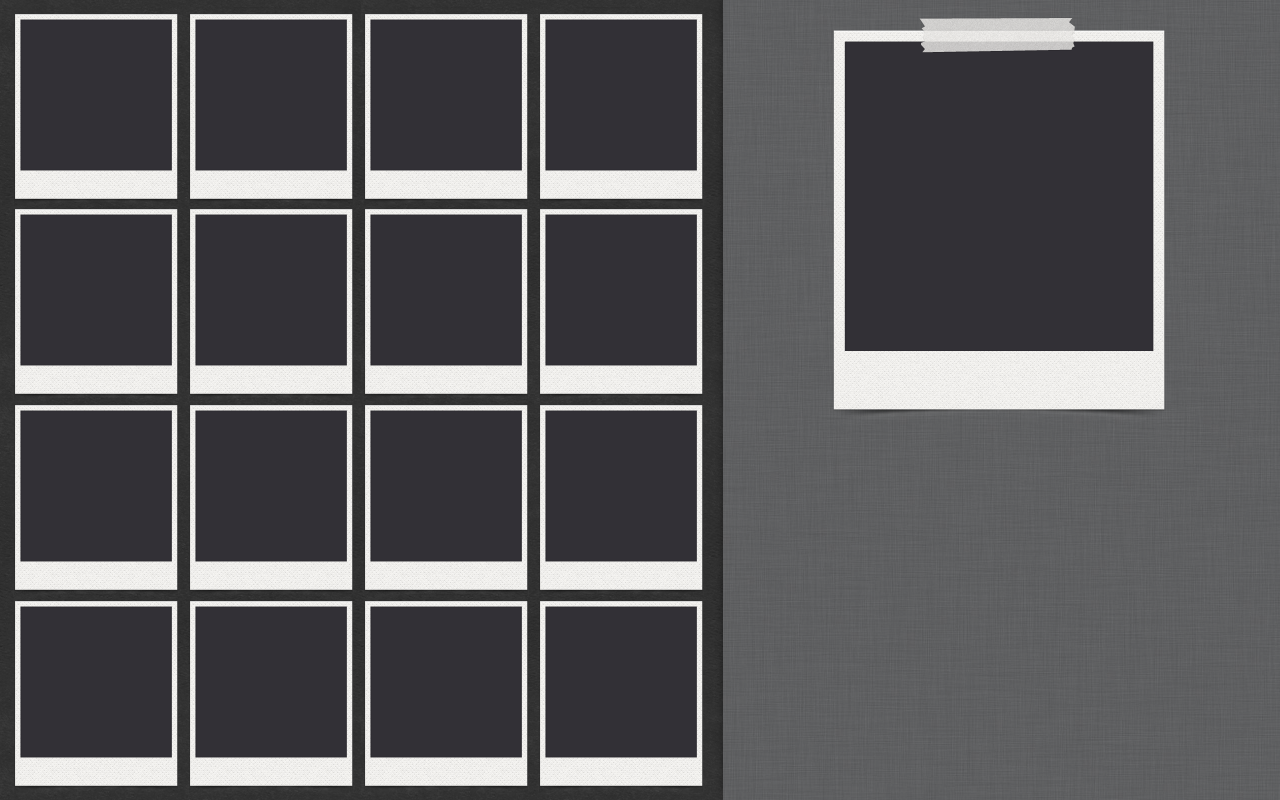
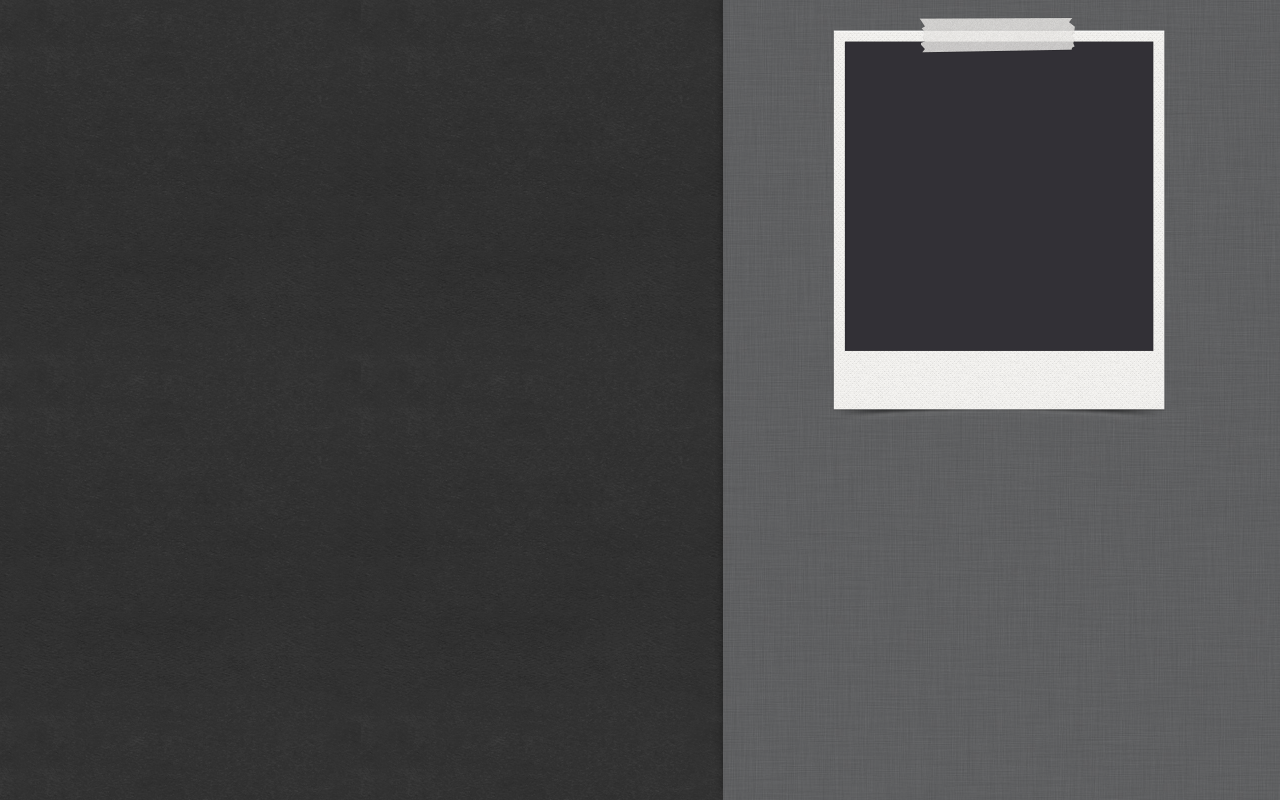
aanpassingen gui

Changed region(s): [[0.0, 0.0, 0.5625, 1.0]]

diff --git a/ir-project/src/main/java/ir_project/gui/GuiInvoker.java b/ir-project/src/main/java/ir_project/gui/GuiInvoker.java
@@ -11,9 +11,9 @@ import java.awt.Font;
 import java.awt.GraphicsDevice;
 import java.awt.GraphicsEnvironment;
 import java.awt.SystemColor;
-import java.awt.event.MouseEvent;
-import java.awt.event.MouseListener;
-import java.awt.event.MouseMotionListener;
+//import java.awt.event.MouseEvent;
+//import java.awt.event.MouseListener;
+//import java.awt.event.MouseMotionListener;
 
 import javax.swing.ImageIcon;
 import javax.swing.JButton;
@@ -94,8 +94,24 @@ public class GuiInvoker {
 		statusbar.setText("Find this image!");
 		frmClusteredImageRetrieval.getContentPane().add(statusbar);
 
-		Handlerclass handler = new Handlerclass();
+		// Handlerclass handler = new Handlerclass();
 
+		
+		JLabel frame1 = new JLabel("frame1");
+		frame1.setIcon(new ImageIcon(GuiInvoker.class
+				.getResource("frame.png")));
+		frame1.setPreferredSize(new Dimension(170, 170));
+		frame1.setIconTextGap(10);
+		frame1
+				.setComponentOrientation(ComponentOrientation.LEFT_TO_RIGHT);
+		frame1.setBorder(null);
+		frame1.setAlignmentY(0.0f);
+		frame1.setBounds(15, 620, 170, 170);
+		frmClusteredImageRetrieval.getContentPane().add(frame1);
+		
+
+		
+		
 		JButton image_1 = new JButton("1");
 		image_1.setBounds(21, 20, 150, 150);
 		image_1.setComponentOrientation(ComponentOrientation.LEFT_TO_RIGHT);
@@ -105,7 +121,7 @@ public class GuiInvoker {
 		image_1.setPreferredSize(new Dimension(150, 150));
 		image_1.setBorder(null);
 		image_1.setCursor(new Cursor(Cursor.HAND_CURSOR));
-		frmClusteredImageRetrieval.getContentPane().add(image_1);
+		// frmClusteredImageRetrieval.getContentPane().add(image_1);
 
 		JButton image_2 = new JButton("2");
 		image_2.setBounds(196, 20, 150, 150);
@@ -116,7 +132,7 @@ public class GuiInvoker {
 		image_2.setBorder(null);
 		image_2.setAlignmentY(0.0f);
 		image_2.setCursor(new Cursor(Cursor.HAND_CURSOR));
-		frmClusteredImageRetrieval.getContentPane().add(image_2);
+		// frmClusteredImageRetrieval.getContentPane().add(image_2);
 
 		JButton image_3 = new JButton("3");
 		image_3.setIcon(new ImageIcon(GuiInvoker.class.getResource("3.jpg")));
@@ -127,7 +143,7 @@ public class GuiInvoker {
 		image_3.setAlignmentY(0.0f);
 		image_3.setBounds(371, 20, 150, 150);
 		image_3.setCursor(new Cursor(Cursor.HAND_CURSOR));
-		frmClusteredImageRetrieval.getContentPane().add(image_3);
+		// frmClusteredImageRetrieval.getContentPane().add(image_3);
 
 		JButton image_4 = new JButton("4");
 		image_4.setIcon(new ImageIcon(GuiInvoker.class.getResource("4.jpg")));
@@ -138,7 +154,7 @@ public class GuiInvoker {
 		image_4.setAlignmentY(0.0f);
 		image_4.setBounds(546, 20, 150, 150);
 		image_4.setCursor(new Cursor(Cursor.HAND_CURSOR));
-		frmClusteredImageRetrieval.getContentPane().add(image_4);
+		// frmClusteredImageRetrieval.getContentPane().add(image_4);
 
 		JButton image_5 = new JButton("5");
 		image_5.setIcon(new ImageIcon(GuiInvoker.class.getResource("5.jpeg")));
@@ -149,7 +165,7 @@ public class GuiInvoker {
 		image_5.setAlignmentY(0.0f);
 		image_5.setBounds(21, 215, 150, 150);
 		image_5.setCursor(new Cursor(Cursor.HAND_CURSOR));
-		frmClusteredImageRetrieval.getContentPane().add(image_5);
+		// frmClusteredImageRetrieval.getContentPane().add(image_5);
 
 		JButton image_6 = new JButton("6");
 		image_6.setIcon(new ImageIcon(GuiInvoker.class.getResource("6.jpg")));
@@ -160,7 +176,7 @@ public class GuiInvoker {
 		image_6.setAlignmentY(0.0f);
 		image_6.setBounds(196, 215, 150, 150);
 		image_6.setCursor(new Cursor(Cursor.HAND_CURSOR));
-		frmClusteredImageRetrieval.getContentPane().add(image_6);
+		// frmClusteredImageRetrieval.getContentPane().add(image_6);
 
 		JButton image_7 = new JButton("7");
 		image_7.setIcon(new ImageIcon(GuiInvoker.class.getResource("7.jpeg")));
@@ -171,7 +187,7 @@ public class GuiInvoker {
 		image_7.setAlignmentY(0.0f);
 		image_7.setBounds(371, 215, 150, 150);
 		image_7.setCursor(new Cursor(Cursor.HAND_CURSOR));
-		frmClusteredImageRetrieval.getContentPane().add(image_7);
+		// frmClusteredImageRetrieval.getContentPane().add(image_7);
 
 		JButton image_8 = new JButton("8");
 		image_8.setIcon(new ImageIcon(GuiInvoker.class.getResource("8.jpg")));
@@ -182,7 +198,7 @@ public class GuiInvoker {
 		image_8.setAlignmentY(0.0f);
 		image_8.setBounds(546, 215, 150, 150);
 		image_8.setCursor(new Cursor(Cursor.HAND_CURSOR));
-		frmClusteredImageRetrieval.getContentPane().add(image_8);
+		// frmClusteredImageRetrieval.getContentPane().add(image_8);
 
 		JButton image_9 = new JButton("9");
 		image_9.setIcon(new ImageIcon(GuiInvoker.class.getResource("9.jpg")));
@@ -193,7 +209,7 @@ public class GuiInvoker {
 		image_9.setAlignmentY(0.0f);
 		image_9.setBounds(21, 411, 150, 150);
 		image_9.setCursor(new Cursor(Cursor.HAND_CURSOR));
-		frmClusteredImageRetrieval.getContentPane().add(image_9);
+		// frmClusteredImageRetrieval.getContentPane().add(image_9);
 
 		JButton image_10 = new JButton("10");
 		image_10.setIcon(new ImageIcon(GuiInvoker.class.getResource("10.jpeg")));
@@ -204,7 +220,7 @@ public class GuiInvoker {
 		image_10.setAlignmentY(0.0f);
 		image_10.setBounds(196, 411, 150, 150);
 		image_10.setCursor(new Cursor(Cursor.HAND_CURSOR));
-		frmClusteredImageRetrieval.getContentPane().add(image_10);
+		// frmClusteredImageRetrieval.getContentPane().add(image_10);
 
 		JButton image_11 = new JButton("11");
 		image_11.setIcon(new ImageIcon(GuiInvoker.class.getResource("11.jpeg")));
@@ -215,7 +231,7 @@ public class GuiInvoker {
 		image_11.setAlignmentY(0.0f);
 		image_11.setBounds(371, 411, 150, 150);
 		image_11.setCursor(new Cursor(Cursor.HAND_CURSOR));
-		frmClusteredImageRetrieval.getContentPane().add(image_11);
+		// frmClusteredImageRetrieval.getContentPane().add(image_11);
 
 		JButton image_12 = new JButton("12");
 		image_12.setIcon(new ImageIcon(GuiInvoker.class.getResource("12.jpeg")));
@@ -226,7 +242,7 @@ public class GuiInvoker {
 		image_12.setAlignmentY(0.0f);
 		image_12.setBounds(546, 411, 150, 150);
 		image_12.setCursor(new Cursor(Cursor.HAND_CURSOR));
-		frmClusteredImageRetrieval.getContentPane().add(image_12);
+		// frmClusteredImageRetrieval.getContentPane().add(image_12);
 
 		JButton image_13 = new JButton("13");
 		image_13.setIcon(new ImageIcon(GuiInvoker.class.getResource("13.jpeg")));
@@ -237,7 +253,7 @@ public class GuiInvoker {
 		image_13.setAlignmentY(0.0f);
 		image_13.setBounds(21, 607, 150, 150);
 		image_13.setCursor(new Cursor(Cursor.HAND_CURSOR));
-		frmClusteredImageRetrieval.getContentPane().add(image_13);
+		// frmClusteredImageRetrieval.getContentPane().add(image_13);
 
 		JButton image_14 = new JButton("14");
 		image_14.setIcon(new ImageIcon(GuiInvoker.class.getResource("14.jpeg")));
@@ -248,7 +264,7 @@ public class GuiInvoker {
 		image_14.setAlignmentY(0.0f);
 		image_14.setBounds(196, 607, 150, 150);
 		image_14.setCursor(new Cursor(Cursor.HAND_CURSOR));
-		frmClusteredImageRetrieval.getContentPane().add(image_14);
+		// frmClusteredImageRetrieval.getContentPane().add(image_14);
 
 		JButton image_15 = new JButton("15");
 		image_15.setIcon(new ImageIcon(GuiInvoker.class.getResource("15.jpg")));
@@ -259,7 +275,7 @@ public class GuiInvoker {
 		image_15.setAlignmentY(0.0f);
 		image_15.setBounds(371, 607, 150, 150);
 		image_15.setCursor(new Cursor(Cursor.HAND_CURSOR));
-		frmClusteredImageRetrieval.getContentPane().add(image_15);
+		// frmClusteredImageRetrieval.getContentPane().add(image_15);
 
 		JButton image_16 = new JButton("16");
 		image_16.setIcon(new ImageIcon(GuiInvoker.class.getResource("16.jpg")));
@@ -270,7 +286,7 @@ public class GuiInvoker {
 		image_16.setAlignmentY(0.0f);
 		image_16.setBounds(546, 607, 150, 150);
 		image_16.setCursor(new Cursor(Cursor.HAND_CURSOR));
-		frmClusteredImageRetrieval.getContentPane().add(image_16);
+		// frmClusteredImageRetrieval.getContentPane().add(image_16);
 
 		JLabel search_image = new JLabel("search image");
 		search_image.setIcon(new ImageIcon(GuiInvoker.class
@@ -297,7 +313,7 @@ public class GuiInvoker {
 		cluster1_image.setCursor(new Cursor(Cursor.HAND_CURSOR));
 		frmClusteredImageRetrieval.getContentPane().add(cluster1_image);
 
-		Handlerclass3 cluster1_handler = new Handlerclass3();
+		// Handlerclass3 cluster1_handler = new Handlerclass3();
 
 		JButton cluster1 = new JButton("");
 		cluster1.setHorizontalAlignment(SwingConstants.LEFT);
@@ -438,8 +454,8 @@ public class GuiInvoker {
 		frmClusteredImageRetrieval.getContentPane().add(cluster4);
 		frmClusteredImageRetrieval.getContentPane().add(cluster5);
 
-		cluster1.addMouseListener(cluster1_handler);
-		cluster1.addMouseMotionListener(cluster1_handler);
+		//	cluster1.addMouseListener(cluster1_handler);
+		// cluster1.addMouseMotionListener(cluster1_handler);
 
 		JLabel background = new JLabel("16");
 		background.setIcon(new ImageIcon(GuiInvoker.class
@@ -450,10 +466,10 @@ public class GuiInvoker {
 		background.setBorder(null);
 		background.setAlignmentY(0.0f);
 		background.setBounds(0, 0, 1280, 800);
-
 		frmClusteredImageRetrieval.getContentPane().add(background);
-		background.addMouseListener(handler);
-		background.addMouseMotionListener(handler);
+		
+		//background.addMouseListener(handler);
+		//background.addMouseMotionListener(handler);
 
 		frmClusteredImageRetrieval.setUndecorated(true);
 
@@ -469,6 +485,8 @@ public class GuiInvoker {
 		// .getExtendedState() | Frame.MAXIMIZED_BOTH);
 
 		addComponentsToPane(frmClusteredImageRetrieval.getContentPane());
+		
+		
 
 		frmClusteredImageRetrieval.setResizable(false);
 		// frmClusteredImageRetrieval.setSize(width, height);
@@ -481,37 +499,37 @@ public class GuiInvoker {
 
 	}
 
-	private class Handlerclass implements MouseListener, MouseMotionListener {
-		public void mouseClicked(MouseEvent event) {
+	// private class Handlerclass implements MouseListener, MouseMotionListener {
+	//	public void mouseClicked(MouseEvent event) {
 			// statusbar.setText(String.format("Clicked at %d,%d",
 			// event.getX(),event.getY()));
-		}
+	//		}
 
-		public void mousePressed(MouseEvent event) {
+	//		public void mousePressed(MouseEvent event) {
 			// statusbar.setText("Pressed");
-		}
+	//	}
 
-		public void mouseReleased(MouseEvent event) {
+	//	public void mouseReleased(MouseEvent event) {
 			// statusbar.setText("Released");
-		}
+	//	}
 
-		public void mouseEntered(MouseEvent event) {
+	//	public void mouseEntered(MouseEvent event) {
 			// statusbar.setText("Entered");
-		}
+	//		}
 
-		public void mouseExited(MouseEvent event) {
+	//	public void mouseExited(MouseEvent event) {
 			// statusbar.setText("Exited");
-		}
+	//	}
 
-		public void mouseDragged(MouseEvent event) {
+	//	public void mouseDragged(MouseEvent event) {
 			// statusbar.setText("Dragged");
 
-		}
+	//	}
 
-		public void mouseMoved(MouseEvent event) {
+	//	public void mouseMoved(MouseEvent event) {
 			// statusbar.setText("Moved");
 
-		}
+	//		}
 
 	}
 
@@ -547,34 +565,34 @@ public class GuiInvoker {
 
 	// }
 
-	private class Handlerclass3 implements MouseListener, MouseMotionListener {
-		public void mouseClicked(MouseEvent event) {
+//	private class Handlerclass3 implements MouseListener, MouseMotionListener {
+//	public void mouseClicked(MouseEvent event) {
 
-		}
+//	}
 
-		public void mousePressed(MouseEvent event) {
+//	public void mousePressed(MouseEvent event) {
 
-		}
+//	}
 
-		public void mouseReleased(MouseEvent event) {
+//		public void mouseReleased(MouseEvent event) {
 
-		}
+//	}
 
-		public void mouseEntered(MouseEvent event) {
+//		public void mouseEntered(MouseEvent event) {
 
-		}
+//		}
 
-		public void mouseExited(MouseEvent event) {
+//	public void mouseExited(MouseEvent event) {
 
-		}
+//	}
 
-		public void mouseDragged(MouseEvent event) {
+//	public void mouseDragged(MouseEvent event) {
 
-		}
+//	}
 
-		public void mouseMoved(MouseEvent event) {
+//	public void mouseMoved(MouseEvent event) {
 
-		}
+//	}
 
-	}
-}
+//}
+//}

diff --git a/ir-project/src/main/java/ir_project_baseline/gui/GuiInvoker.java b/ir-project/src/main/java/ir_project_baseline/gui/GuiInvoker.java
@@ -492,7 +492,7 @@ public class GuiInvoker {
 		cluster1.addMouseListener(cluster1_handler);
 		cluster1.addMouseMotionListener(cluster1_handler);
 
-		JLabel background = new JLabel("16");
+		JLabel background = new JLabel("background");
 		background.setIcon(new ImageIcon(GuiInvoker.class
 				.getResource("gui.png")));
 		background.setPreferredSize(new Dimension(150, 150));
